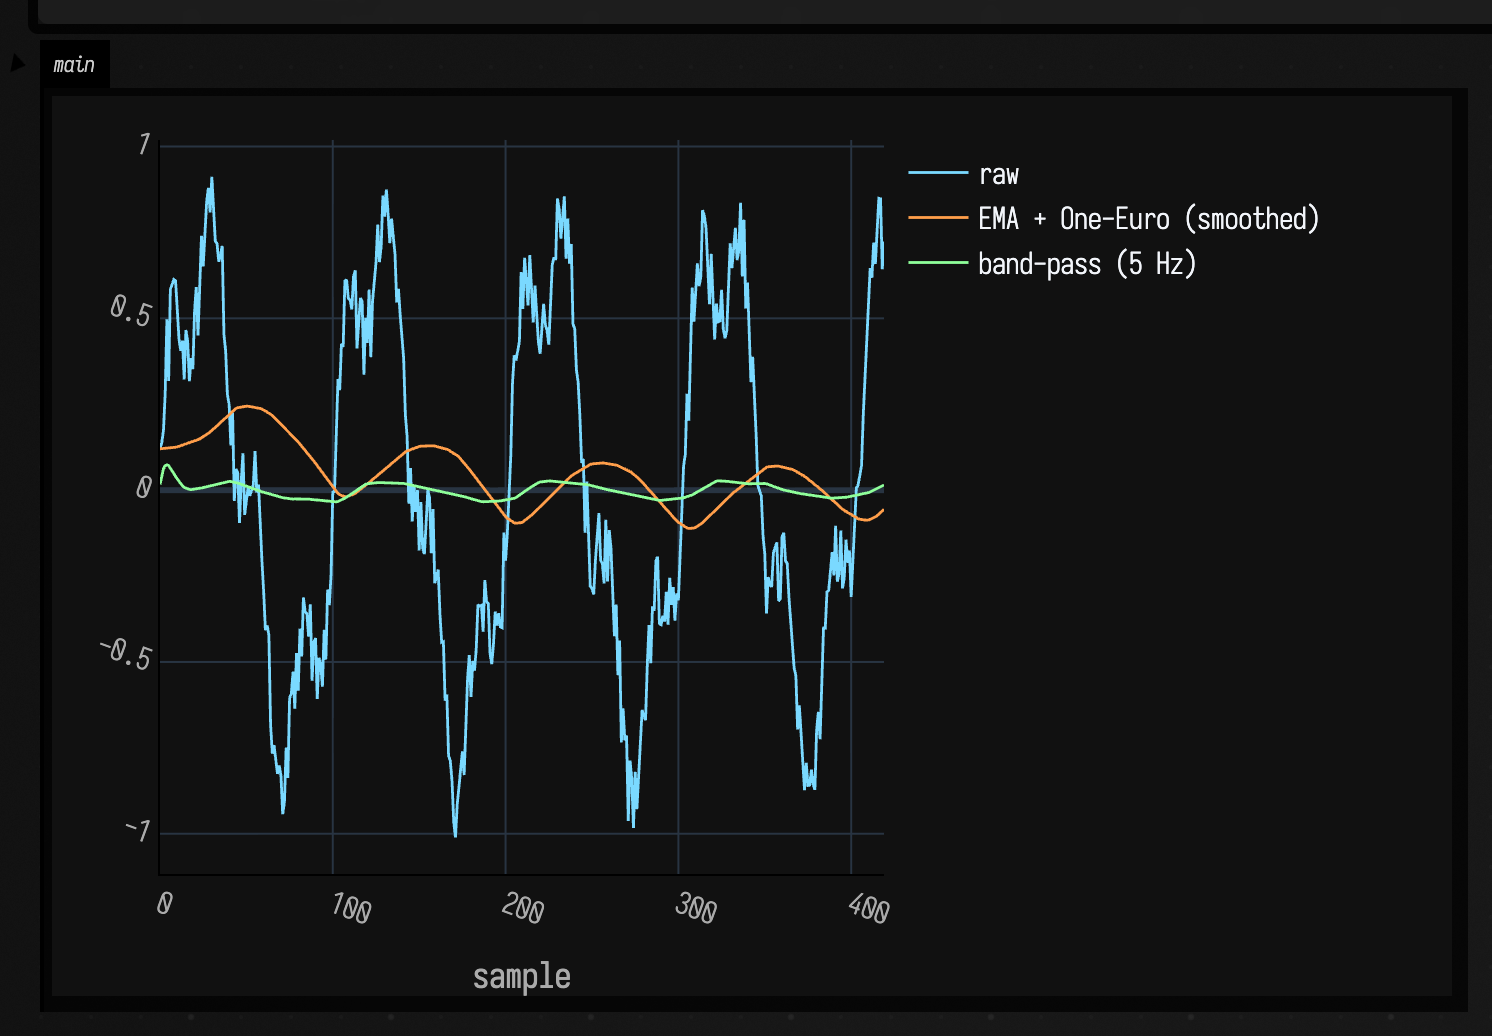
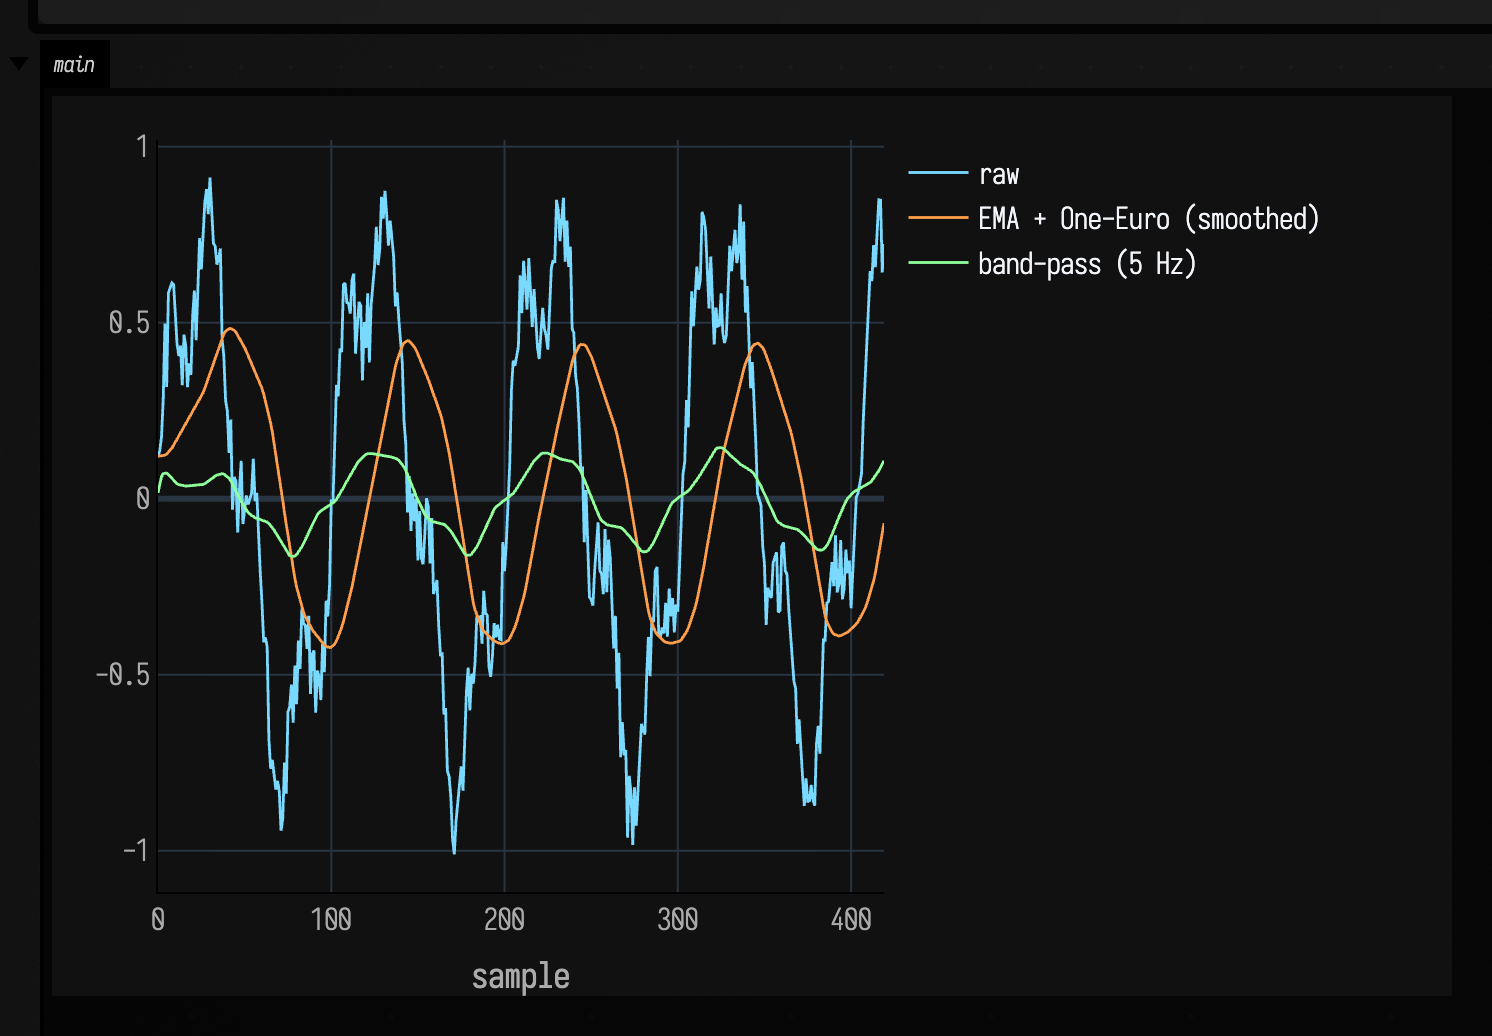
OneEuroFilter: optional sampleRate for deterministic offline use
Recapture filter_chains.png with sampleRate = 120f and drop the wall-clock warning
from spectral_examples.md (handoff 8fadbecf).

diff --git a/src/jvmMain/kotlin/afield/stdlib/timeseries.kt b/src/jvmMain/kotlin/afield/stdlib/timeseries.kt
@@ -299,12 +299,13 @@ class AlphaBetaFilter(var alpha: Float, var beta: Float, var dt: Float = 1f) : F
  * speed, so a slow-moving hand gets smoothed hard while a fast gesture is barely delayed. The usual
  * pick for pointer, touch or tracker input, where lag is more objectionable than jitter.
  *
- * **It reads the wall clock.** Every call takes `System.currentTimeMillis()` and derives `dt` from
- * the gap since the previous call, floored at 1 ms, which makes this the one filter here that is
- * not deterministic. Pushing a stored array through it in a tight loop yields `dt = 1 ms` and so far
- * heavier smoothing than the same data arriving at, say, 120 Hz. The cutoffs are in Hz, so they only
- * mean what you think when the samples really do arrive in real time. The first sample is passed
- * through to seed the state.
+ * The cutoffs are in Hz, so the filter needs the time between samples. Give it [sampleRate] when
+ * you know the rate — stored or synthesised data pushed through in a loop — and every sample is
+ * taken to be `1 / sampleRate` seconds after the last, so the output is deterministic. Leave it
+ * `null` for live input and each call reads `System.currentTimeMillis()` instead, deriving `dt` from
+ * the gap since the previous call, floored at 1 ms; a tight loop without [sampleRate] therefore sees
+ * `dt = 1 ms` and smooths far harder than the cutoffs suggest. The first sample is passed through
+ * to seed the state.
  */
 class OneEuroFilter(
     /** Cutoff (Hz) used when the signal is standing still — lower is smoother and laggier. */
@@ -318,7 +319,12 @@ class OneEuroFilter(
      * Cutoff (Hz) of the low-pass applied to the speed estimate itself. Raise it if the adaptation
      * feels sluggish, lower it if noise in the speed makes the cutoff jitter.
      */
-    var dCutoff: Float = 1.0f
+    var dCutoff: Float = 1.0f,
+    /**
+     * The rate in Hz the samples were taken at. When set, `dt` is `1 / sampleRate` on every call;
+     * when `null`, `dt` is measured from the wall clock between calls.
+     */
+    var sampleRate: Float? = null
 ) : FloatFilter {
     private var xPrev: Float? = null
     private var dxPrev: Float = 0f
@@ -330,11 +336,12 @@ class OneEuroFilter(
     }
 
     /**
-     * The filtered sample. Reads the clock, so the amount of smoothing depends on *when* you call
-     * this, not only on what you pass in.
+     * The filtered sample. Without [sampleRate] this reads the clock, so the amount of smoothing
+     * depends on *when* you call it, not only on what you pass in.
      */
     override fun invoke(value: Float): Float {
-        val t = System.currentTimeMillis()
+        val rate = sampleRate
+        val t = if (rate == null) System.currentTimeMillis() else 0L
         if (xPrev == null) {
             xPrev = value
             dxPrev = 0f
@@ -342,7 +349,7 @@ class OneEuroFilter(
             return value
         }
 
-        val dt = ((t - tPrev) / 1000.0f).coerceAtLeast(0.001f)
+        val dt = if (rate != null) 1.0f / rate else ((t - tPrev) / 1000.0f).coerceAtLeast(0.001f)
         tPrev = t
 
         val dx = (value - xPrev!!) / dt

diff --git a/public/docs/spectral_examples.md b/public/docs/spectral_examples.md
@@ -15,7 +15,7 @@ val smooth = mutableListOf<Float>()
 val filtered = mutableListOf<Float>()
 
 val ema = EMAFilter(alpha = 0.08f)
-val oneEuro = OneEuroFilter(minCutoff = 1.0f, beta = 0.02f)
+val oneEuro = OneEuroFilter(minCutoff = 1.0f, beta = 0.02f, sampleRate = 120f)
 val band = BandPassFilter(frequency = 5f, sampleRate = 120f, q = 0.8f)
 
 for (i in 0 until 420) {
@@ -44,12 +44,9 @@ showSignals(
 
 One `showSignals` call puts all three streams on one axis. Watch the chain order: `band` is applied to `s`, the output of `ema` and `oneEuro`, not to `signal`, so the band-pass sees a stream the two smoothers have already been through.
 
-![Three traces over 420 samples: a jagged blue raw signal swinging between +1 and -1, an orange smoothed trace attenuated to roughly a fifth of it and lagging behind, and a green band-pass trace that stays almost flat at zero](assets/timeseries_examples/filter_chains.png)
+![Three traces over 420 samples: a jagged blue raw signal swinging between +1 and -1, a smooth orange trace at about half that height and a few samples behind it, and a green band-pass trace swinging gently around zero at the same slow rate](assets/timeseries_examples/filter_chains.png)
 
-That order is why the band-pass trace sits nearly flat: most of the 4.7 Hz content it is tuned for was taken out upstream.
-
-!!! warning "`OneEuroFilter` measures time with the wall clock"
-    It works out the time between samples from when it is called. Its cutoffs are in Hz and mean what they say when samples arrive live, at their real rate. In a `for` loop over stored data, as here, every sample seems to arrive a millisecond after the last, so it smooths far harder than `minCutoff = 1.0f` suggests. That is where the attenuation and lag in the orange trace come from.
+That order is why the band-pass trace is small and slow: the 4.7 Hz content it is tuned for was mostly taken out upstream, so what passes is the leakage of the 1.2 Hz swing through its skirt. The two filters with cutoffs in Hz are told the rate: `BandPassFilter` and `OneEuroFilter` take `sampleRate = 120f`, so those cutoffs mean what they say for stored data pushed through in a loop.
 
 ## Distribution-aware event flags
 
